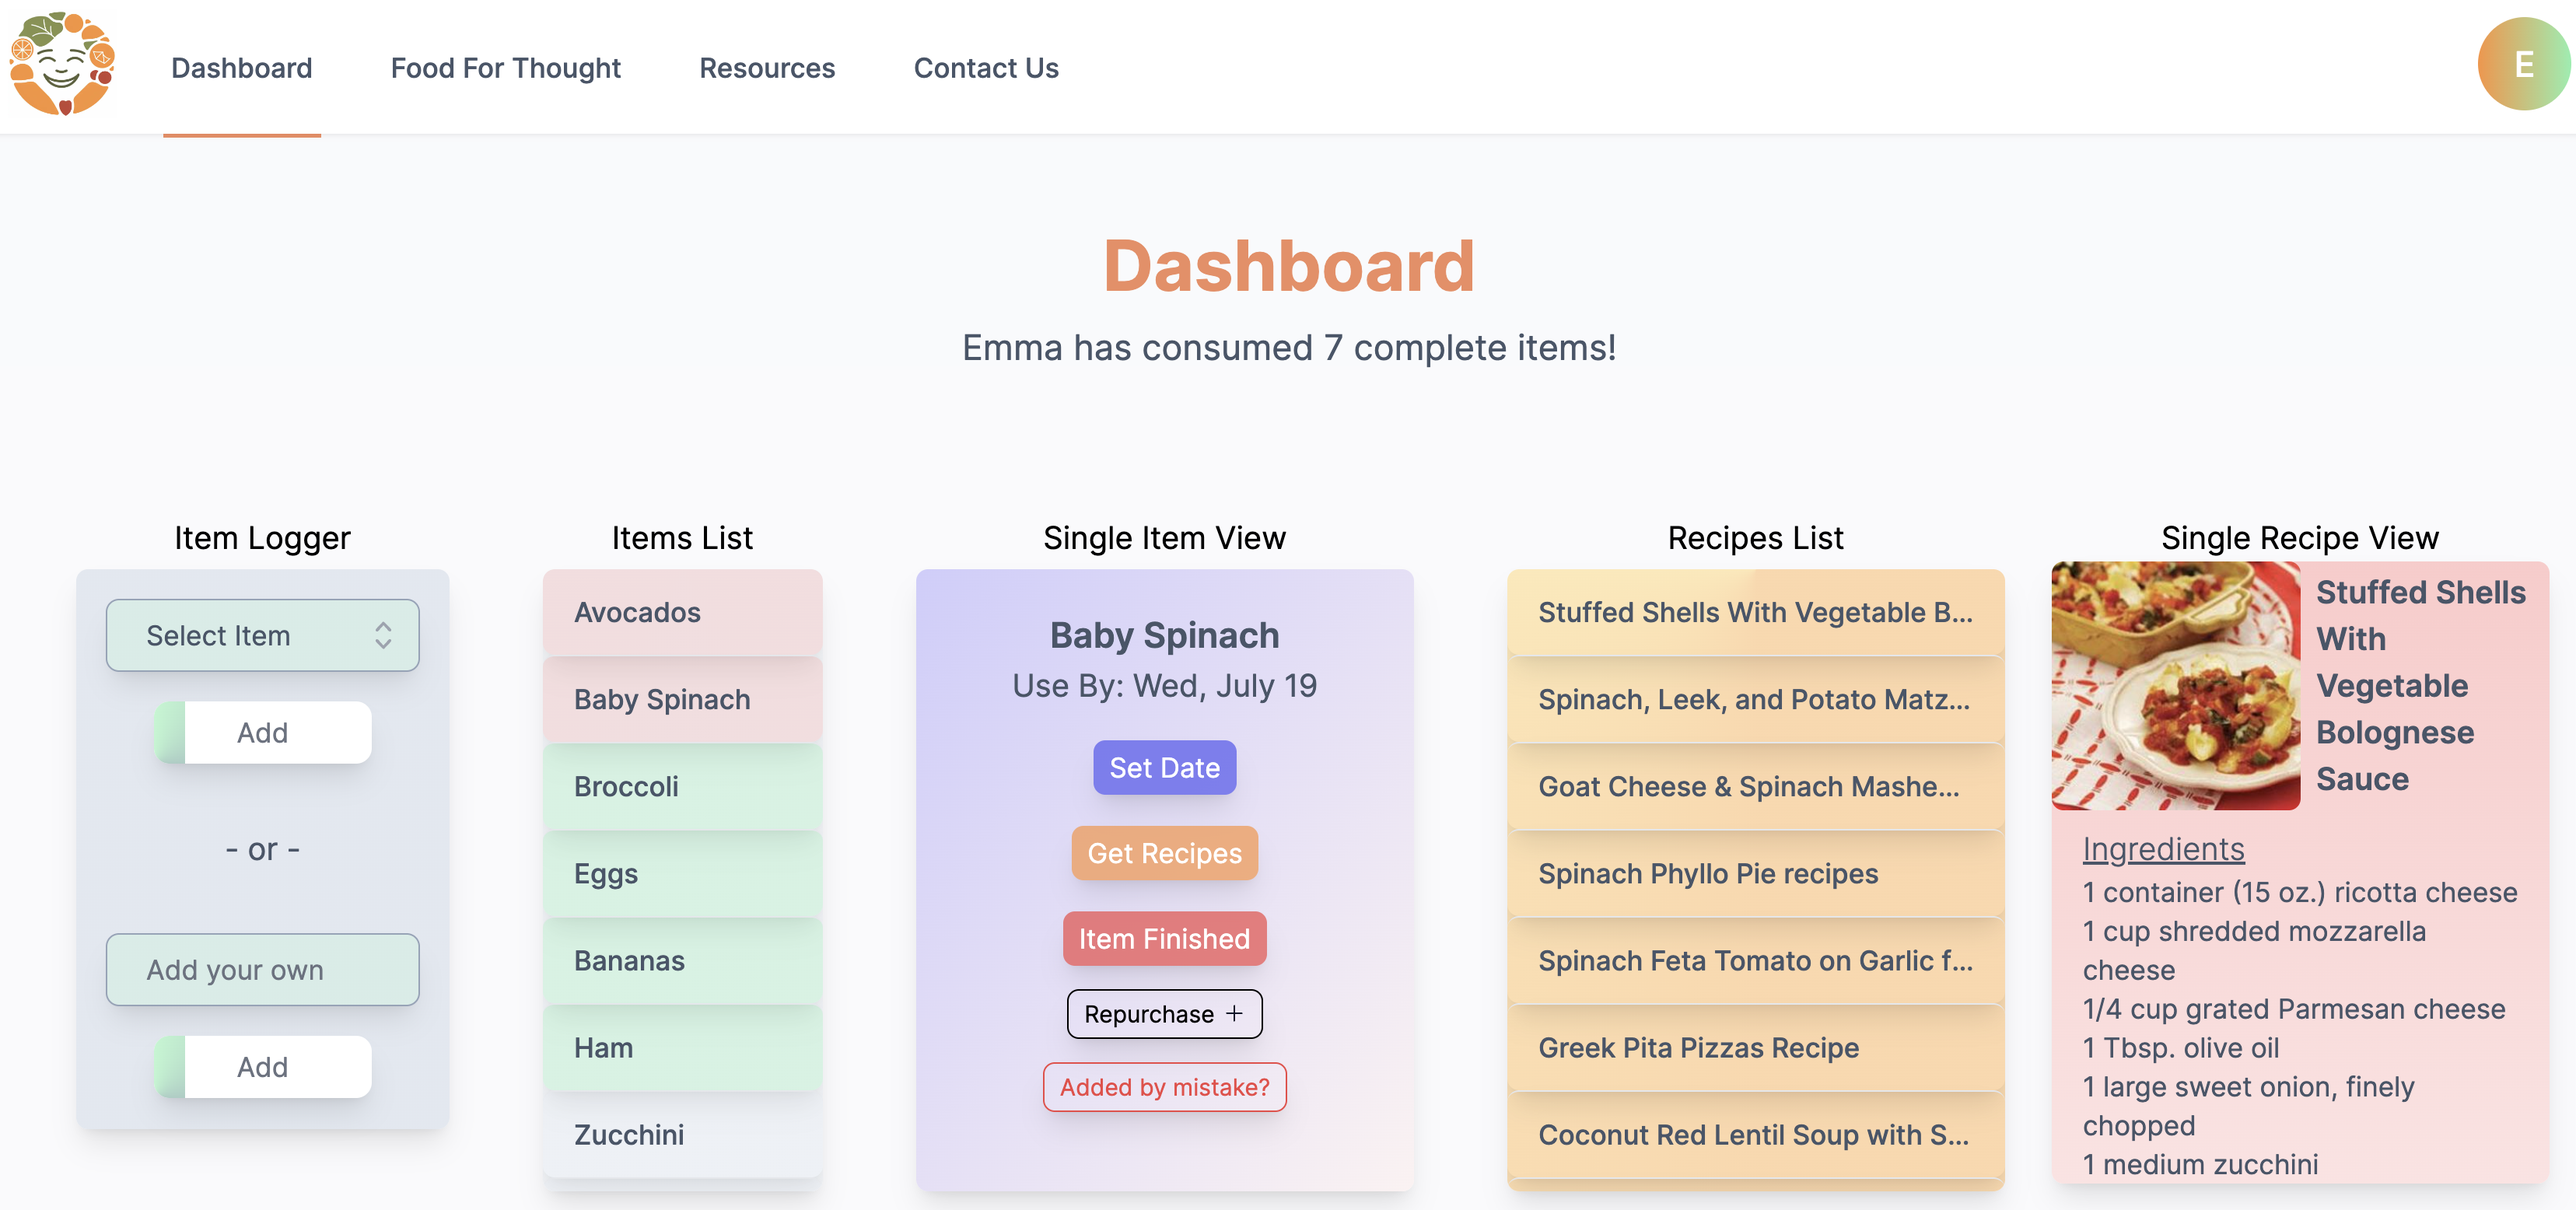
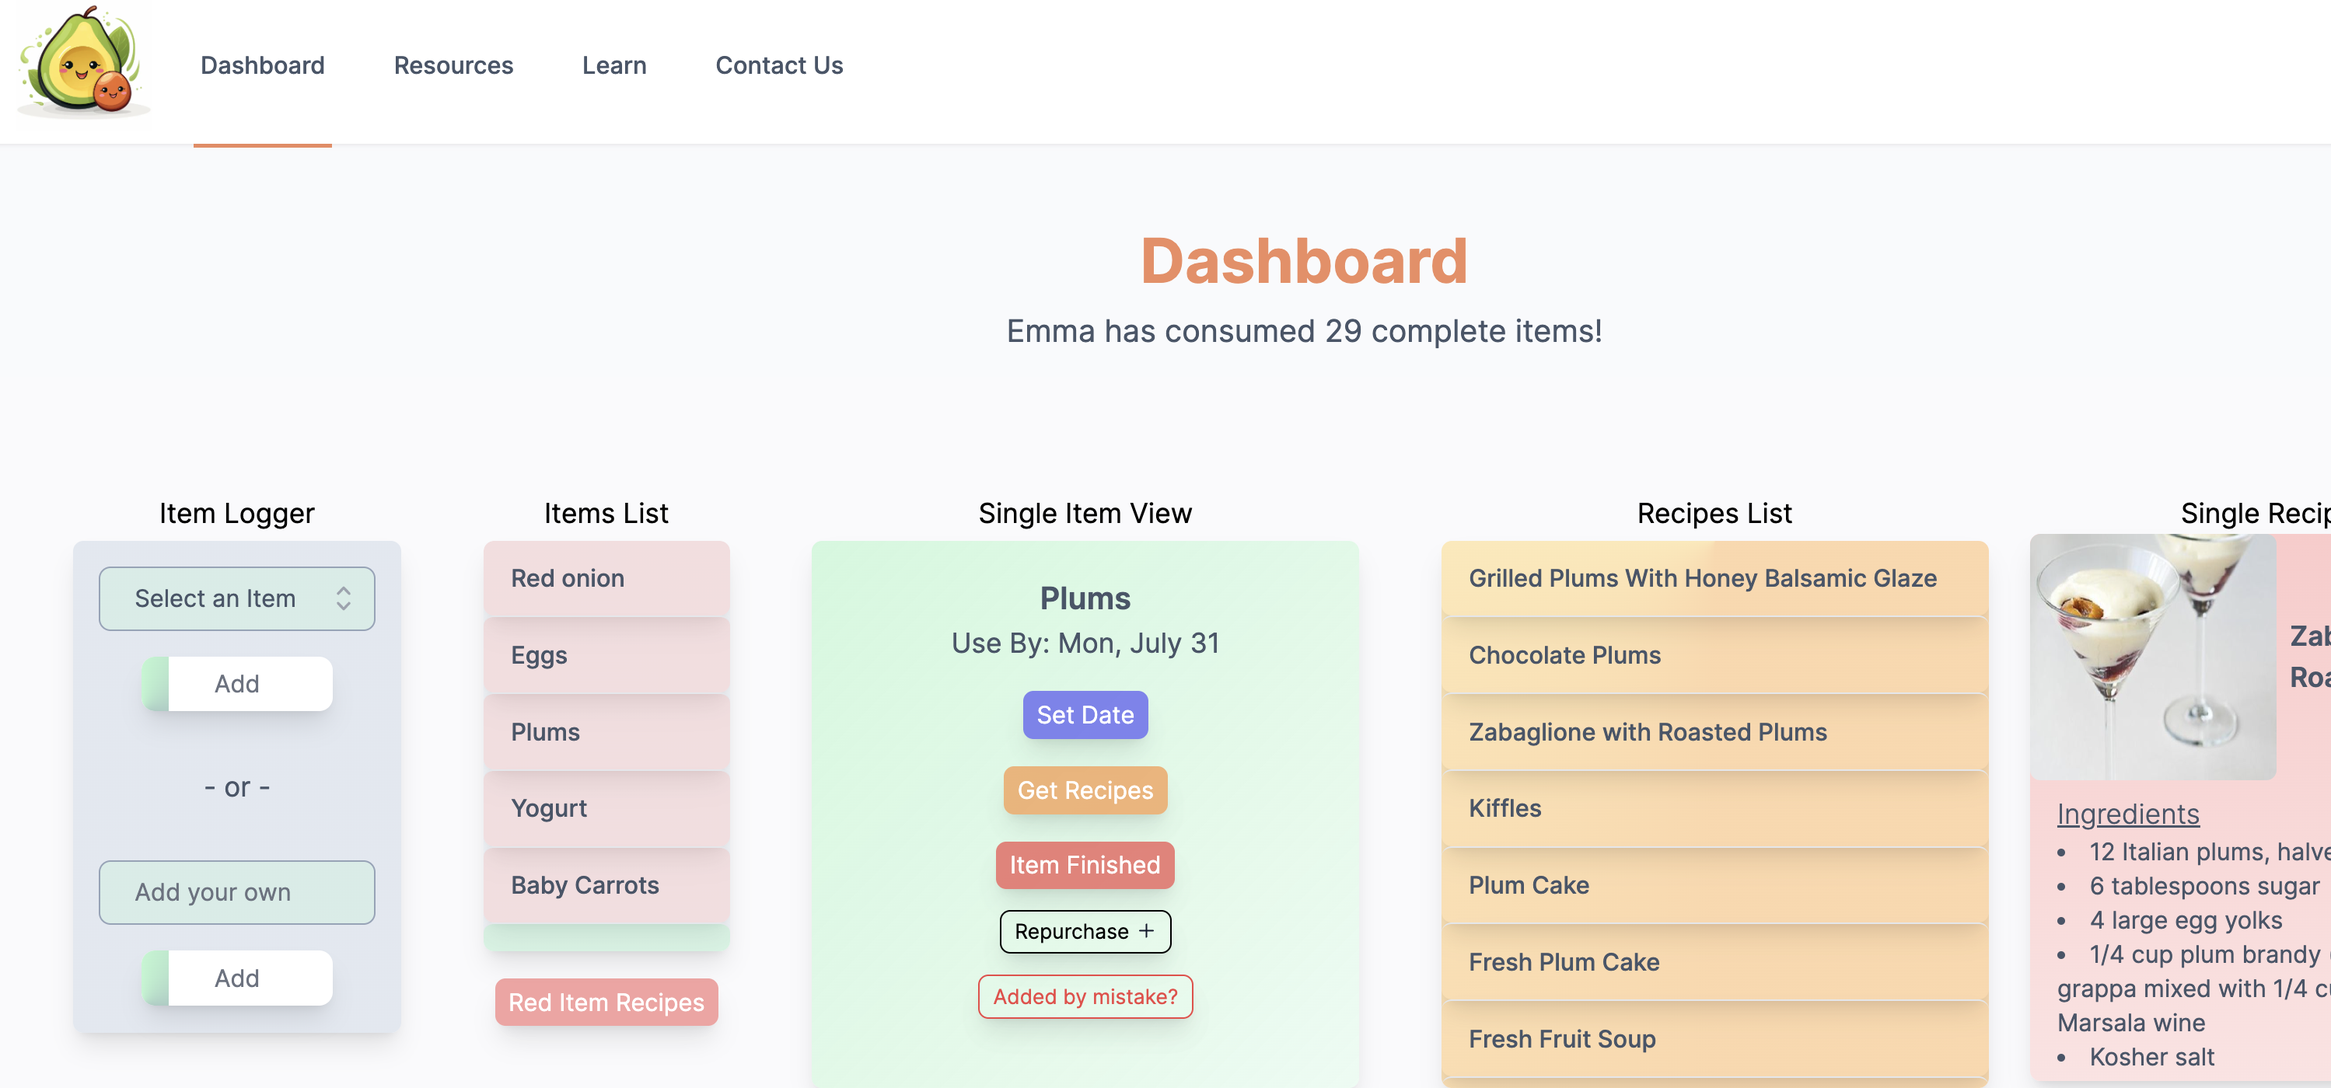
small changes, get rid of food for thought

diff --git a/app/(site)/resources/page.js b/app/(site)/resources/page.js
@@ -22,8 +22,8 @@ export default async function Resources() {
       <div className="flex flex-col text-center justify-center items-center mx-auto w-3/4 py-12 bg-slate-50/50">
         <h1 className=" text-orange-600/70 font-bold text-4xl">Resources</h1>
         <h2 className="my-2 text-slate-600 text-md md:text-lg text-center w-3/4 md:w-1/2">
-          These are the organizations and projects that helped define the goals
-          and values of this app. They deserve a closer look!
+          The organizations, projects, and videos that helped shape the goals
+          and values of this app.
         </h2>
         <div class="container px-5 py-24 mx-auto">
           <div class="flex flex-wrap -m-4">
@@ -177,6 +177,66 @@ export default async function Resources() {
               </div>
             </div>
           </div>
+        </div>
+        <div className="w-full aspect-video mb-20 bg-slate-50/50">
+          <h2 className="py-1 text-md md:text-lg font-semibold text-slate-600">
+            Food Waste: Last Week Tonight with John Oliver
+          </h2>
+          <iframe
+            className="rounded-md shadow-lg mx-auto max-w-xs md:max-w-lg"
+            width="560"
+            height="315"
+            src="https://www.youtube.com/embed/i8xwLWb0lLY"
+            title="YouTube video player"
+            frameborder="0"
+            allow="accelerometer; autoplay; clipboard-write; encrypted-media; gyroscope; picture-in-picture; web-share"
+            allowfullscreen
+          ></iframe>
+        </div>
+        <div className="w-full aspect-video mb-20 bg-slate-50/50 my-8">
+          <h2 className="py-1 text-md md:text-lg font-semibold text-slate-600">
+            Tristram Stuart: The global food waste scandal
+          </h2>
+          <iframe
+            className="rounded-md shadow-lg mx-auto max-w-xs md:max-w-lg"
+            width="560"
+            height="315"
+            src="https://www.youtube.com/embed/cWC_zDdF74s"
+            title="YouTube video player"
+            frameborder="0"
+            allow="accelerometer; autoplay; clipboard-write; encrypted-media; gyroscope; picture-in-picture; web-share"
+            allowfullscreen
+          ></iframe>
+        </div>
+        <div className="w-full aspect-video mb-20 bg-slate-50/50 my-8">
+          <h2 className="py-1 text-md md:text-lg font-semibold text-slate-600">
+            Food waste is the world's dumbest problem
+          </h2>
+          <iframe
+            className="rounded-md shadow-lg mx-auto max-w-xs md:max-w-lg"
+            width="560"
+            height="315"
+            src="https://www.youtube.com/embed/6RlxySFrkIM"
+            title="YouTube video player"
+            frameborder="0"
+            allow="accelerometer; autoplay; clipboard-write; encrypted-media; gyroscope; picture-in-picture; web-share"
+            allowfullscreen
+          ></iframe>
+        </div>
+        <div className="w-full aspect-video mb-20 bg-slate-50/50 my-8">
+          <h2 className="py-1 text-md md:text-lg font-semibold text-slate-600">
+            South Korea's push to cut back on Food Waste
+          </h2>
+          <iframe
+            className="rounded-md shadow-lg mx-auto max-w-xs md:max-w-lg"
+            width="560"
+            height="315"
+            src="https://www.youtube.com/embed/VgUYTgwPKn8"
+            title="YouTube video player"
+            frameborder="0"
+            allow="accelerometer; autoplay; clipboard-write; encrypted-media; gyroscope; picture-in-picture; web-share"
+            allowfullscreen
+          ></iframe>
         </div>
       </div>
       <Footer />

diff --git a/app/common/NavBar.js b/app/common/NavBar.js
@@ -50,12 +50,12 @@ const NavBar = ({ user }) => {
               <div className="flex flex-1 items-center justify-center sm:items-stretch sm:justify-start">
                 <div className="flex flex-shrink-0 items-center py-2">
                   <Image
-                    className="block h-16 w-auto lg:hidden"
+                    className="block h-20 w-auto lg:hidden"
                     src={logo}
                     alt="Waste Not App"
                   />
                   <Image
-                    className="hidden h-14 w-auto lg:block"
+                    className="hidden h-20 w-auto lg:block"
                     src={logo}
                     alt="Waste Not App"
                   />
@@ -67,18 +67,13 @@ const NavBar = ({ user }) => {
                     className="inline-flex items-center px-1 pt-1 text-sm font-medium text-slate-600"
                   />
                   <CustomLink
-                    href={"/learn"}
-                    title={"Learn"}
-                    className="inline-flex items-center px-1 pt-1 text-sm font-medium text-slate-600"
-                  />
-                  <CustomLink
-                    href={"/food-for-thought"}
-                    title={"Food For Thought"}
-                    className="inline-flex items-center px-1 pt-1 text-sm font-medium text-slate-600"
-                  />
-                  <CustomLink
                     href={"/resources"}
                     title={"Resources"}
+                    className="inline-flex items-center px-1 pt-1 text-sm font-medium text-slate-600"
+                  />
+                  <CustomLink
+                    href={"/learn"}
+                    title={"Learn"}
                     className="inline-flex items-center px-1 pt-1 text-sm font-medium text-slate-600"
                   />
                   <CustomLink
@@ -150,13 +145,7 @@ const NavBar = ({ user }) => {
               >
                 Learn
               </Disclosure.Button>
-              <Disclosure.Button
-                as="a"
-                href="food-for-thought"
-                className="block border-l-4 border-orange-600 py-2 pl-3 pr-4 text-base font-medium text-orange-600/70"
-              >
-                Food For Thought
-              </Disclosure.Button>
+
               <Disclosure.Button
                 as="a"
                 href="resources"

diff --git a/app/page.js b/app/page.js
@@ -16,7 +16,8 @@ export default async function Home() {
                 <h1 className="text-3xl font-bold tracking-tight text-slate-600 sm:text-4xl">
                   <span className="block">Want to stop wasting food?</span>
                   <span className="block">
-                    Try <span className=" text-orange-600/70">Waste-Not!</span>
+                    Try{" "}
+                    <span className=" text-orange-600/70">Waste-Not App!</span>
                   </span>
                 </h1>
                 <p className="mt-4 text-lg leading-6 text-slate-600">
@@ -44,7 +45,7 @@ export default async function Home() {
       <div className="flex flex-col w-2/3 mx-auto mt-6 bg-slate-50/50">
         <h2 className="text-slate-600 text-center font-semibold mt-4 text-2xl">
           How to get the most out of{" "}
-          <span className="text-orange-600/70">Waste-Not</span>
+          <span className="text-orange-600/70">Waste-Not App</span>
         </h2>
         <p className="my-2 text-slate-600 text-sm md:text-base">
           <span className=" font-extrabold">

diff --git a/app/(site)/dashboard/page.js b/app/(site)/dashboard/page.js
@@ -24,7 +24,7 @@ export default async function Home() {
         <div className="flex flex-col w-2/3 m-auto bg-slate-50/50 my-12">
           <h2 className="text-slate-600 text-center font-semibold mt-4 text-2xl">
             How to get the most out of{" "}
-            <span className="text-orange-600/70">Waste-Not</span>
+            <span className="text-orange-600/70">Waste-Not App</span>
           </h2>
           <p className="my-2 text-slate-600 text-sm md:text-base">
             <span className=" font-extrabold">

diff --git a/app/common/GuestNavBar.js b/app/common/GuestNavBar.js
@@ -19,7 +19,7 @@ const GuestNavBar = () => {
             <div className="flex flex-1 items-center justify-start">
               <div className="flex flex-shrink-0 items-center py-2">
                 <Image
-                  className="block h-16 w-auto"
+                  className="block h-20 w-auto"
                   src={logo}
                   alt="Your Company"
                 />

diff --git a/app/(site)/resources/layout.js b/app/(site)/resources/layout.js
@@ -1,5 +1,5 @@
 export const metadata = {
-  title: "Waste-Not Resources",
+  title: "Waste-Not App Resources",
   description:
     "List of organizations and projects that help with food waste reduction.",
 };

diff --git a/app/(site)/contact/layout.js b/app/(site)/contact/layout.js
@@ -1,5 +1,5 @@
 export const metadata = {
-  title: "Waste-Not Contact Form",
+  title: "Waste-Not App Contact Form",
   description: "Send us your comments, questions, and concerns.",
 };
 

diff --git a/app/(site)/dashboard/layout.js b/app/(site)/dashboard/layout.js
@@ -1,5 +1,5 @@
 export const metadata = {
-  title: "Waste-Not Dashboard",
+  title: "Waste-Not App Dashboard",
   description: "Log your items, track your goals, find recipes",
 };
 
